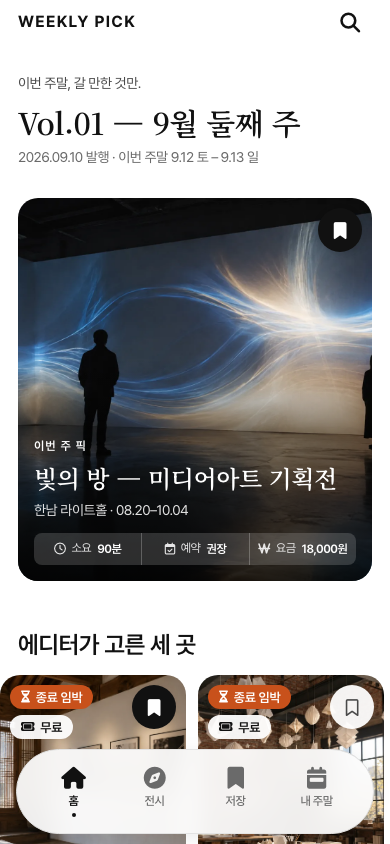
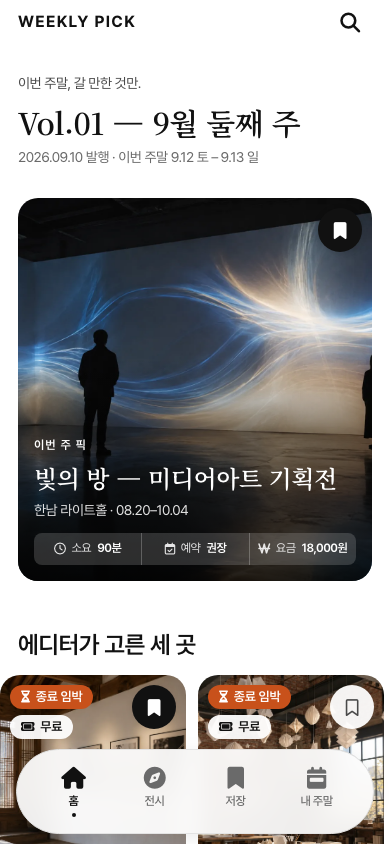
fix: improve route accessibility and document validation (#10)

diff --git a/js/app.js b/js/app.js
@@ -39,6 +39,7 @@ function render() {
   saveReviewDraft();
   const r = parseHash();
   const routeChanged = currentRoute !== r.raw;
+  const navigating = routeChanged && currentRoute !== null;
   if (routeChanged) {
     searchComposing = false;
     if (ui.modalConfirm) closeModal();
@@ -81,6 +82,9 @@ function render() {
 
   loginProtection.reset();
   app.innerHTML = html + navHTML;
+  const heading = app.querySelector('main h1');
+  const pageLabel = heading || app.querySelector('.detail-header__title');
+  document.title = pageLabel ? pageLabel.textContent.trim() + ' — 위클리픽' : '위클리픽 — 이번 주말, 갈 만한 것만';
   loginProtection.mount();
   toastRegion.classList.toggle('toast-region--bar', usesBar);
 
@@ -89,6 +93,14 @@ function render() {
   // 스크롤 처리: 뒤로 가기로 목록에 돌아오면 위치 복원
   const remembered = ui.scrollMemory[r.raw];
   window.scrollTo(0, typeof remembered === 'number' ? remembered : 0);
+
+  if (navigating) {
+    const destination = heading || app.querySelector('main');
+    if (destination) {
+      destination.setAttribute('tabindex', '-1');
+      destination.focus({ preventScroll: true });
+    }
+  }
 
   if (routeChanged && r.query.focus === '1') {
     const input = document.getElementById('search-input');
@@ -417,6 +429,7 @@ function screenReviewFeed() {
   const list = sortedReviews(ui.reviewSort);
   return detailHeaderHTML('다녀온 사람들') +
     '<main class="content-container screen--with-nav">' +
+      '<h1 class="sr-only">다녀온 사람들</h1>' +
       '<div class="sort-tabs" role="group" aria-label="후기 정렬">' +
         chipHTML('최신순', ui.reviewSort === 'latest', 'sort-reviews', 'latest') +
         chipHTML('별점순', ui.reviewSort === 'rating', 'sort-reviews', 'rating') +
@@ -711,6 +724,7 @@ function screenRegions(query, routeChanged) {
 
   return detailHeaderHTML('동네별로 보기') +
     '<main class="content-container screen--with-nav">' +
+      '<h1 class="sr-only">동네별로 보기</h1>' +
       '<div class="filter-row" role="group" aria-label="권역 선택">' +
         REGIONS.map(function (rg) {
           return chipHTML(rg.name, rg.id === region.id, 'select-region', rg.id);
@@ -740,6 +754,7 @@ function screenArchive() {
   const hero = getExhibition('ex-01');
   return detailHeaderHTML('지난 호') +
     '<main class="content-container screen--with-nav">' +
+      '<h1 class="sr-only">지난 호</h1>' +
       '<section class="archive-current">' +
         '<span class="archive-label">이번 호</span>' +
         '<a class="stop-card" href="#/home">' +

diff --git a/css/app.css b/css/app.css
@@ -287,6 +287,10 @@ a { color: inherit; text-decoration: none; }
   background: var(--color-bg-app);
 }
 .search-field i { color: var(--color-text-muted); font-size: 16px; }
+.search-field:focus-within {
+  outline: 2px solid var(--color-brand-primary);
+  outline-offset: 2px;
+}
 .search-field input {
   flex: 1 1 auto;
   align-self: stretch;

diff --git a/docs/usability-test.md b/docs/usability-test.md
@@ -1,0 +1,63 @@
+# 위클리픽 사용자 테스트
+
+상태: 과제와 기록 양식 준비 완료. 실제 참여자 테스트는 아직 실시하지 않았다. 예상 결과나 개발자의 점검을 참여자 결과로 기입하지 않는다.
+
+## 진행 준비
+
+- 소요 시간: 약 15–20분. 참여자 1명씩 진행한다.
+- 시작 주소: https://weekly-pick.vercel.app/#/home
+- 새 브라우저 프로필 또는 비공개 창의 비로그인 상태를 사용한다. 기기·브라우저·화면 크기를 기록한다.
+- 앱에는 처음부터 샘플 저장·일정이 있을 수 있다. 이를 실패나 참여자의 이전 작업으로 간주하지 않는다.
+- 기록은 P01 등 익명 ID로 남긴다. 이름·이메일·인증 링크를 수집하지 않는다. 녹화·녹음은 별도 동의를 받은 경우에만 한다.
+- 진행자는 성공 경로를 먼저 설명하지 않는다. 2분 이상 막히거나 참여자가 도움을 요청하면 한 번 힌트를 제공하고, 독립 성공과 도움 후 성공을 구분한다.
+- 전시·일정은 가상의 데모다. 결제·예매·실제 방문은 하지 않는다.
+
+## 참여자에게 읽어 줄 안내
+
+“이번 주말에 갈 전시를 고르는 웹사이트입니다. 사람을 평가하는 것이 아니라 화면에서 어려운 부분을 찾는 시간이에요. 떠오르는 생각을 말하면서 사용해 주세요. 언제든 중단할 수 있고, 로그인하거나 개인정보를 입력할 필요는 없습니다.”
+
+## 과제
+
+| 번호 | 참여자에게 제시할 상황 | 진행자용 성공 기준 |
+|---|---|---|
+| 1 | 이번 주말에 가고 싶은 전시 두 곳을 찾아 나중에 다시 볼 수 있게 해 주세요. 이미 저장된 곳을 골라도 괜찮아요. | 두 전시의 저장 상태를 확인하고 저장 목록에서 다시 찾음 |
+| 2 | 고른 두 곳을 토요일에 가려고 해요. 일정에 넣고 방문 순서를 바꿔 주세요. | 두 곳이 토요일에 배정되고 순서가 바뀜 |
+| 3 | 오후 1시에 출발한다면 몇 시쯤 끝나는지 알려 주세요. | 시작 시각 13:00 선택, 종료 예상 시각을 찾고 말함 |
+| 4 | 한 곳은 일요일에 가는 것으로 바꾸고, 다시 토요일로 되돌려 주세요. | 요일 변경과 복귀를 완료함 |
+| 5 | 로그인하면 무엇이 저장되고, 후기는 누가 볼 수 있는지 찾아 설명해 주세요. 실제 로그인은 하지 않아도 됩니다. | 계정·개인정보 안내에서 비공개 계획과 공개 후기를 구분함 |
+
+후기 작성·수정·삭제·되돌리기는 **계정 연결을 끈 로컬 데모**에서만 선택 과제로 진행한다. 운영 사이트에 테스트 후기를 게시하지 않는다. 로컬 환경이 없다면 선택 과제는 미실시로 남긴다.
+
+로컬 선택 과제 준비: 별도 로컬 복사본의 `js/config.js`를 `window.WEEKLY_PICK_CONFIG = Object.freeze({});`로 바꾸고 README의 로컬 실행 방법을 따른다. 진행자가 내 주말 하단 데모 날짜를 9.14로 설정한다. 참여자에게 “다녀온 전시의 짧은 후기를 남기고, 내용을 수정한 다음 삭제했다가 되돌려 주세요”라고 요청한다.
+
+## 관찰 기록
+
+세션 ID: ___ / 날짜: ___ / 대상 배포·커밋: ___
+
+기기·OS·브라우저 버전: ___ / 화면 크기: ___ / 입력 방식·보조기술: ___
+
+| 과제 | 시작–종료 또는 소요 시간 | 결과¹ | 멈춘 위치·실제 행동 | 참여자 발언² | 제공한 도움 |
+|---|---|---|---|---|---|
+| 1 | | | | | |
+| 2 | | | | | |
+| 3 | | | | | |
+| 4 | | | | | |
+| 5 | | | | | |
+| 선택 후기 과제 | | 미실시 | | | |
+
+¹ 독립 성공 / 도움 후 성공 / 미완료 / 미실시. ² 실제 발언만 인용하고 진행자의 해석은 별도 기록한다.
+
+## 마무리 질문
+
+1. 가장 헷갈렸던 부분은 어디였나요?
+2. 저장과 주말 계획의 차이를 어떻게 이해하셨나요?
+3. 예상 종료 시각에 이동 시간이 포함되는지 알 수 있었나요?
+4. 다음 주말에 다시 쓴다면 가장 먼저 바꾸고 싶은 것은 무엇인가요?
+
+## 결과를 개선 과제로 바꾸기
+
+| 관찰 근거(세션·과제) | 문제 | 영향³ | 수정 가설 | 재검증 과제 | 상태 |
+|---|---|---|---|---|---|
+| 관찰 전 | | | | | 미실시 |
+
+³ 완료 불가 / 반복 실수·도움 필요 / 잠깐 망설임. 소수의 관찰을 전체 사용자 비율로 일반화하지 않는다. 개선 뒤 같은 과제를 다시 확인하고, 관찰 전후의 실제 근거만 포트폴리오에 사용한다.

diff --git a/docs/accessibility-review.md b/docs/accessibility-review.md
@@ -1,0 +1,43 @@
+# 접근성 점검 기록
+
+점검일: 2026-10-05. 대상: 화면 이동 접근성 보완 코드. 이 기록은 접근성 인증이나 실제 스크린리더 전체 흐름의 통과 결과가 아니다.
+
+## 자동 검사
+
+| 항목 | 방법 | 결과 |
+|---|---|---|
+| 화면 이동 | 홈에서 하단 저장 링크에 포커스 후 Enter, 목적 화면 h1 포커스 확인 | Chromium·WebKit 통과 |
+| 화면 식별 | 화면별 document.title, 후기·동네·지난 호·계정·개인정보 h1 확인 | Chromium·WebKit 통과 |
+| 검색 입력 | 검색 바로가기 포커스, 필드의 표시되는 외곽선 확인 | Chromium·WebKit 통과 |
+| 기존 조작 | 별점 방향키, 확인창 포커스 순환·Escape, 필터·정렬·일정 조작 후 포커스 | Chromium·WebKit 통과 |
+| 계정 회귀 | 실제 SDK + 모의 HTTP로 로그인 복귀·동의·오류·탈퇴 확인 흐름 | Chromium·WebKit 통과 |
+
+검사 명령은 README의 검증 절을 따른다. 모의 계정 검사는 실제 메일 발송·실계정 삭제·실제 CAPTCHA 검증을 의미하지 않는다.
+
+## 실제 Safari 관찰
+
+계정 서버에 연결하지 않는 로컬 데모를 Safari에서 열었다. macOS 접근성 트리에서 다음을 확인했다.
+
+- 페이지 제목: `Vol.01 — 9월 둘째 주 — 위클리픽`
+- 대표 제목: `Vol.01 — 9월 둘째 주`, 머리말 레벨 1
+- 저장 버튼: 전시명과 저장/저장 해제 이름, 토글 상태 0/1
+- 하단 탐색: 홈·전시·저장·내 주말 링크
+
+이후 Safari 창을 도구에서 찾지 못해 VoiceOver 실행 단축키가 전달되지 않았다. 창 복원 재시도도 `window_not_found`로 실패했다. VoiceOver를 켰거나 음성 출력·커서 이동을 검증했다고 주장하지 않는다. 자동 검사의 WebKit은 실제 Safari·VoiceOver 조합을 대체하지 않는다.
+
+## VoiceOver 재점검 절차
+
+Safari와 VoiceOver를 사용할 수 있는 환경에서 아래를 수행하고 관찰 결과를 기록한다. 테스트 전 켜짐 상태를 기록하고 종료 후 원래 상태로 복원한다.
+
+1. 홈에서 제목·랜드마크 탐색으로 본문과 하단 탐색에 접근한다.
+2. 저장 링크를 실행하고 새 제목과 현재 위치가 전달되는지 확인한다.
+3. 전시 검색창의 이름, 검색 결과 수, 저장 토글 상태를 확인한다.
+4. 내 주말에서 시작 시각·위로/아래로·요일 변경의 이름과 변경 후 위치를 확인한다.
+5. 로컬 비로그인 데모에서 후기 별점·본문·요일을 조작하고 취소 확인창을 연다. 제목·설명·버튼 순서, 배경 접근 차단, Escape 후 복귀를 확인한다.
+6. 운영 로그인 화면은 입력 이름·동의·개인정보 링크만 관찰한다. 실제 메일 요청·공개 후기·탈퇴는 별도 테스트 계정과 참여자 의사에 따라 수행한다.
+
+| 환경/버전 | 과제 | 실제 낭독 또는 커서 동작 | 기대와 다른 점 | 결과 |
+|---|---|---|---|---|
+| 미실시 | — | — | — | 미검증 |
+
+실제 iPhone Safari, 실제 모바일 IME, 사용자 관찰 검증도 미완료다.

diff --git a/README.md b/README.md
@@ -31,8 +31,19 @@
 | 한글 검색과 재렌더링 중 입력·포커스 끊김 | IME 조합 중 입력 노드 유지, 필터·정렬·일정 조작 후 포커스 유지 |
 | 로그인 전 기록과 계정 기록이 섞일 가능성 | 명시적 가져오기, 계정별 미저장 변경·초안 분리, 로그아웃 시 게스트 기록 복원 |
 | 여러 기기의 저장이 서로 덮어쓸 가능성 | 리비전 기반 충돌 감지와 다시 불러오기 안내 |
+| 키보드로 화면 이동 후 현재 위치를 파악하기 어려움 | 목적 화면 제목으로 포커스 이동, 화면별 브라우저 제목, 검색창 포커스 표시 |
 
 이 표는 구현과 회귀 검사 결과입니다. 사용자 관찰을 통한 사용성 개선 수치나 실제 iPhone 검증 결과를 의미하지 않습니다.
+
+## 개선 사례: 화면 이동 후 현재 위치 알기
+
+하단의 **저장** 링크를 키보드로 실행하면 화면은 바뀌지만 포커스가 새 콘텐츠로 이어지지 않았습니다. 이를 브라우저 회귀 검사에서 재현한 뒤, 앱 내 화면 이동 시 목적 화면의 대표 제목으로 포커스를 옮기도록 수정했습니다. 기존 스크롤 복원은 유지하고, 검색 바로가기는 검색창을 우선합니다. 같은 화면에서 필터나 일정 순서를 바꾸는 경우에는 조작한 버튼의 포커스를 유지합니다.
+
+후기 피드·동네별 보기·지난 호에는 보조기술용 대표 제목을 추가했고, 브라우저 탭 제목도 현재 화면에 맞춰 갱신합니다. 검색창은 입력 중 포커스 테두리를 표시합니다.
+
+<img src="docs/images/search-focus.png" alt="전시 탐색 화면에서 검색창을 둘러싼 검은 포커스 테두리" width="260">
+
+검증 근거는 `tests/browser-accessibility.cjs`와 Chromium·WebKit 회귀 검사입니다. 실제 VoiceOver 낭독 검증은 미완료이며, [접근성 점검 기록](docs/accessibility-review.md)에 확인 범위와 제한을 구분했습니다. [사용자 테스트 과제·기록 양식](docs/usability-test.md)은 준비했으며 아직 참여자 관찰 결과는 없습니다.
 
 ## 구조와 기술 선택
 

diff --git a/v2/04-implementation.md b/v2/04-implementation.md
@@ -90,3 +90,11 @@ TEST_BASE_URL=https://your-preview.vercel.app npm run test:browser
 - 동네 링크의 `rg` 값 역시 진입 시에만 적용하여 다른 동네를 선택해도 초기 동네로 되돌아가지 않게 한다.
 - 일정 순서 변경으로 현재 버튼이 맨 위/아래에서 비활성화되면 같은 전시의 반대 방향 버튼에 포커스를 둔다. 계속 키보드로 순서를 조정할 수 있다.
 - `tests/browser-discovery.cjs`: 합성 composition 이벤트로 조합 중 노드 유지와 최종 검색어 반영, 필터/초기화/동네 링크/정렬의 키보드 조작, 일정 경계의 포커스와 순서 복원을 Chromium·WebKit에서 검증한다. 합성 이벤트는 실제 OS 한글 입력기·모바일 키보드 검증을 대체하지 않는다.
+
+## 화면 이동 접근성 보완 (2026-10-05)
+
+- 키보드로 하단 탐색 링크를 실행했을 때 목적 화면으로 포커스가 이어지지 않는 문제를 회귀 검사로 재현했다. 앱 내 경로 변경 시 대표 제목(없는 화면은 main)으로 포커스를 옮기고, 기존 스크롤 복원을 유지한다. 검색 바로가기는 검색창 포커스를 우선하며 같은 화면의 필터 조작에는 이 이동을 적용하지 않는다.
+- 화면별 브라우저 제목을 갱신하고 후기 피드·동네별 보기·지난 호에 보조기술용 h1을 추가했다.
+- 검색창 내부에 포커스가 있으면 검색 필드 외곽선을 표시한다.
+- 로컬 상태·DB·계정 검사 25개와 Chromium·WebKit의 기존 브라우저 검사가 통과했다. 새 검사는 키보드 화면 이동, 화면 제목·h1, 검색 포커스 표시를 포함한다. 실제 스크린리더·실기기 검증은 별도로 남아 있다.
+- 배포 상태는 해당 PR과 Vercel 배포 결과를 기준으로 확인한다. 실제 접근성 확인 범위는 `docs/accessibility-review.md`에 기록한다.
